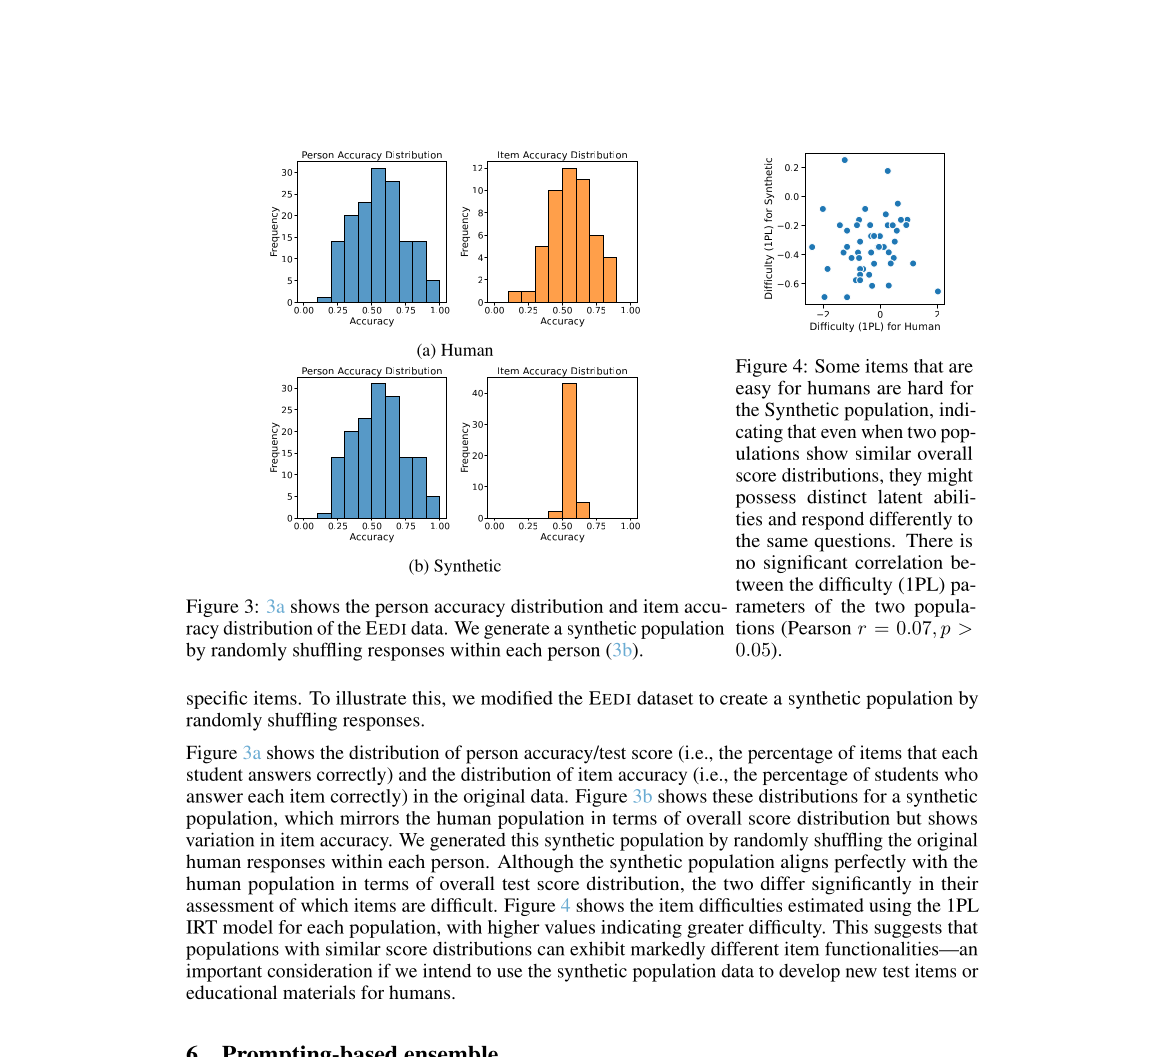
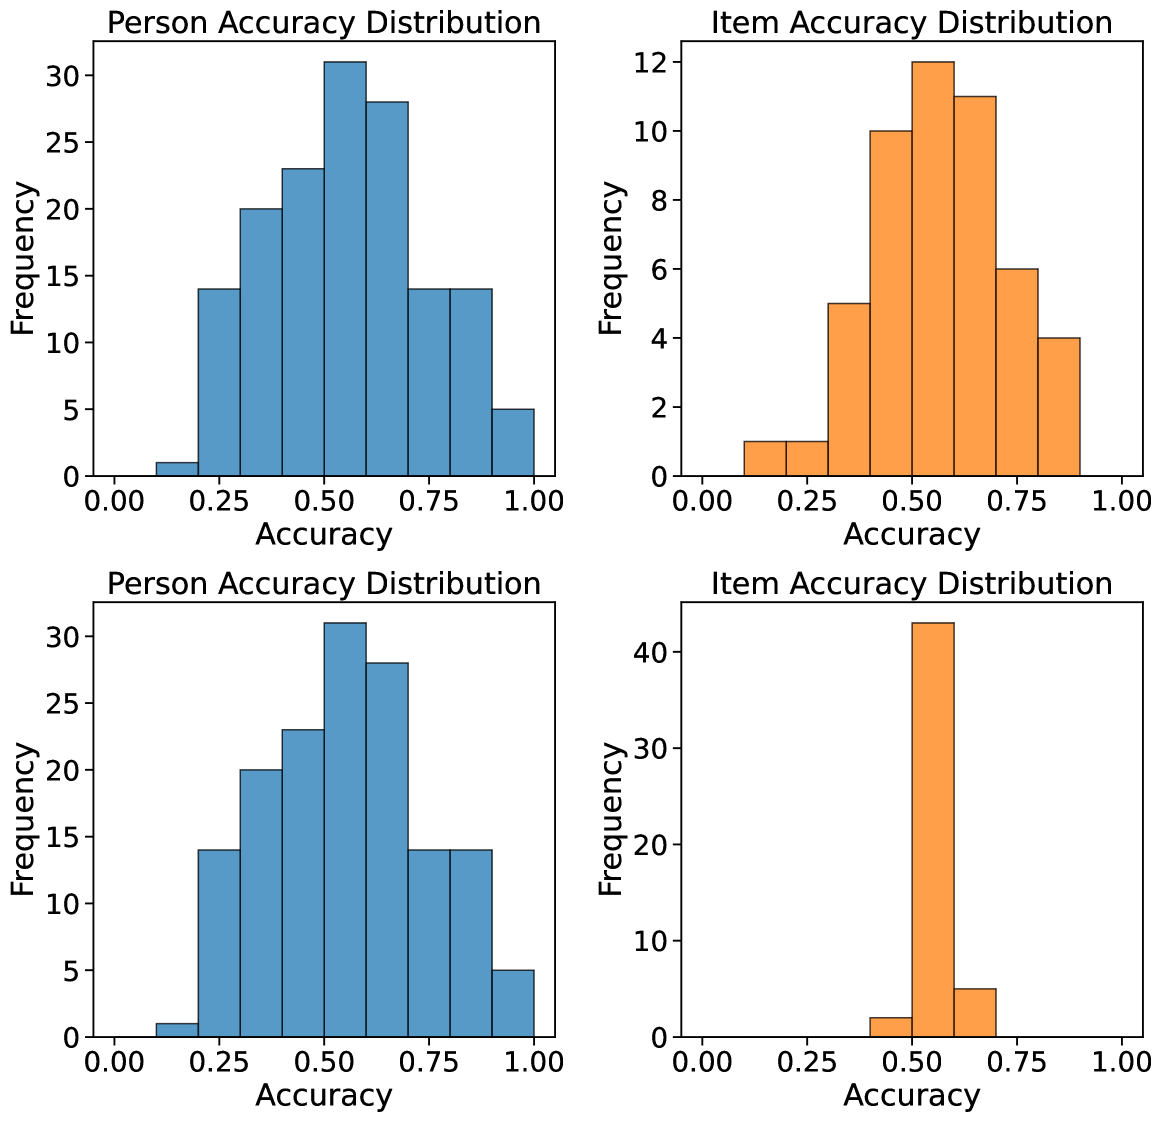
[hist0613.github.io] Replace 3 figures with arXiv/ar5iv HTML originals, fix captions

diff --git a/blog/posts/irt-for-llm-evaluation/ko/index.html b/blog/posts/irt-for-llm-evaluation/ko/index.html
@@ -108,8 +108,8 @@
     </p>
 
     <figure style="max-width: 760px">
-      <img src="../assets/vania2021-figure1-2.png" alt="Vania et al. 2021 Figure 1-2 — 29개 NLP 데이터셋 LEH 점수 분포와 ICC 예시">
-      <figcaption>29개 NLP 데이터셋에서 측정한 LEH(Locally Estimated Headroom) 점수 분포(Vania et al.<a href="#ref-37">[37]</a> Figure 1-2). 세로축은 문항의 LEH 점수(높을수록 최강 모델도 틀리는 변별력 있는 문항)다. Quora·HellaSwag·MC-TACO는 현재 최강 모델을 변별하는 문항이 많은 반면, SNLI·MNLI는 거의 모든 문항이 0에 수렴해 포화 상태임을 보여준다.</figcaption>
+      <img src="../assets/vania2021-figure1-2.png" alt="Vania et al. 2021 Figure 1 — 29개 NLP 데이터셋 LEH 점수 분포">
+      <figcaption>29개 NLP 데이터셋에서 측정한 LEH(Locally Estimated Headroom) 점수 분포(Vania et al.<a href="#ref-37">[37]</a> Figure 1). 세로축은 LEH 점수(높을수록 최강 모델도 틀리는 변별력 있는 문항)다. SNLI·MNLI(왼쪽 두 번째·세 번째)는 점수가 0에 수렴해 이미 포화 상태인 반면, Quoref·HellaSwag 같은 데이터셋은 아직 변별력 있는 문항이 남아 있다.</figcaption>
     </figure>
 
     <p>
@@ -329,8 +329,8 @@
     </p>
 
     <figure style="max-width: 700px">
-      <img src="../assets/heyueya2024-figure3.png" alt="He-Yueya et al. 2024 Figure 3 — 인간 집단과 LM 합성 집단의 응답 정확도 분포 비교">
-      <figcaption>인간 집단(위)과 LM 합성 집단(아래)의 응답 정확도 분포 비교(He-Yueya et al.<a href="#ref-45">[45]</a> Figure 3). 전체 정확도 수준이 비슷해도 문항별 반응 패턴이 다르다. 이 차이가 DIF(문항기능차이)로 포착되며, psychometric alignment가 낮음을 의미한다.</figcaption>
+      <img src="../assets/heyueya2024-figure3.png" alt="He-Yueya et al. 2024 Figure 3 — 인간 응답자(위)와 LM 합성 응답자(아래)의 응답 분포 비교">
+      <figcaption>인간 응답자(위)와 LM 합성 응답자(아래)의 응답 분포 비교(He-Yueya et al.<a href="#ref-45">[45]</a> Figure 3). 왼쪽은 개별 응시자 전체 정답률(Person Accuracy), 오른쪽은 문항별 평균 정답률(Item Accuracy) 분포다. 인간 집단(위 오른쪽)에서 문항별 정답률이 넓게 퍼지는 반면, LM 합성 집단(아래 오른쪽)은 0.5 근방에 집중된다. 이 차이가 DIF(문항기능차이)로 포착되며, psychometric alignment가 낮음을 의미한다.</figcaption>
     </figure>
 
     <h2>개인적인 생각</h2>